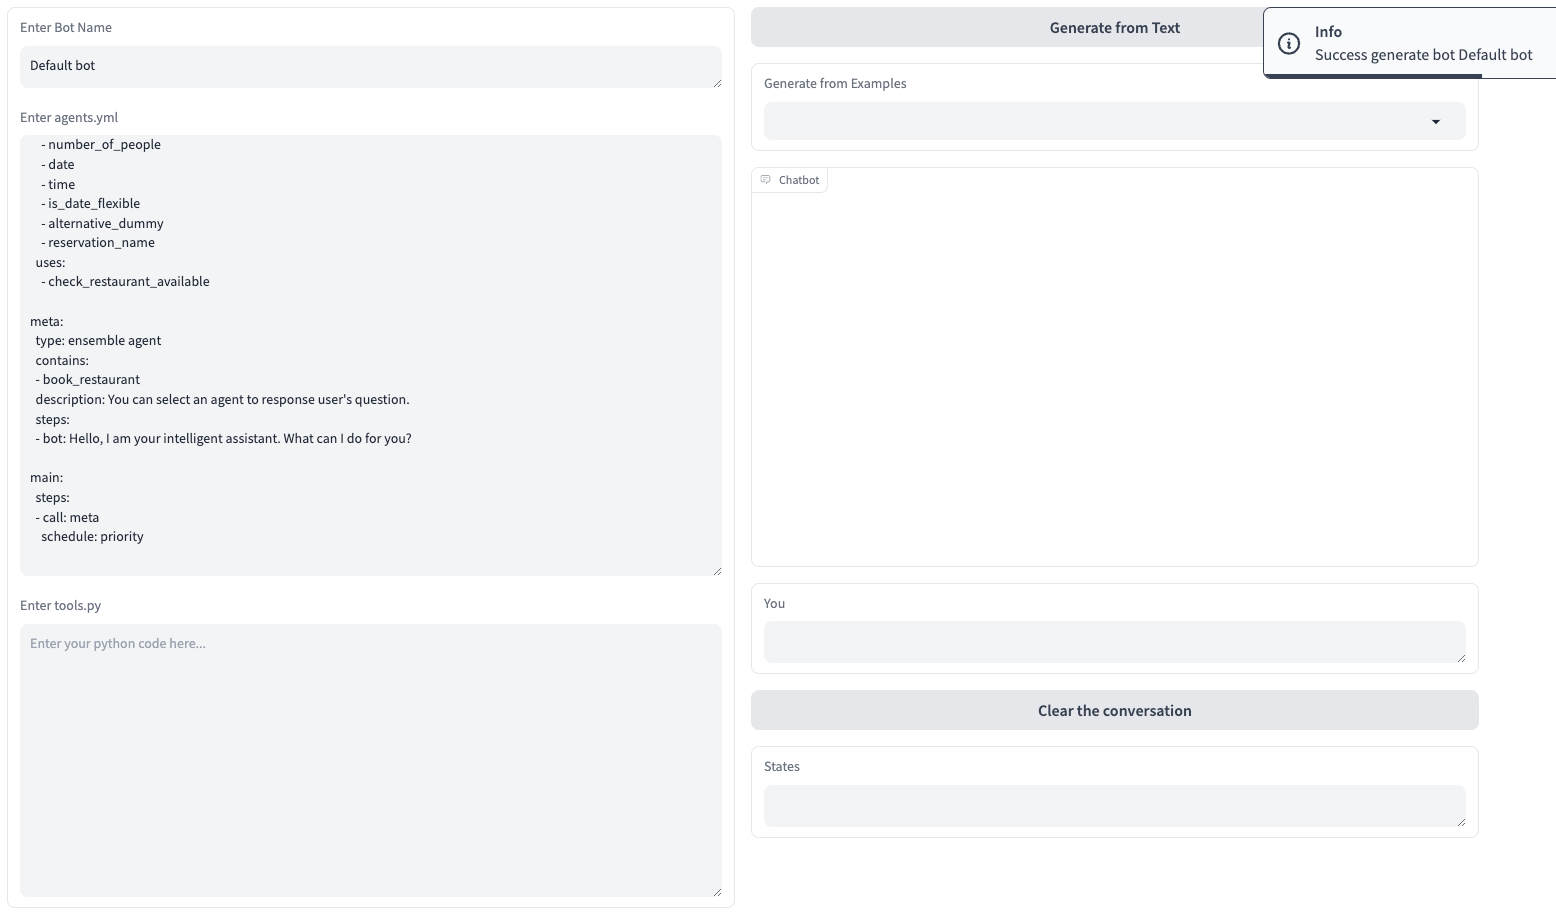
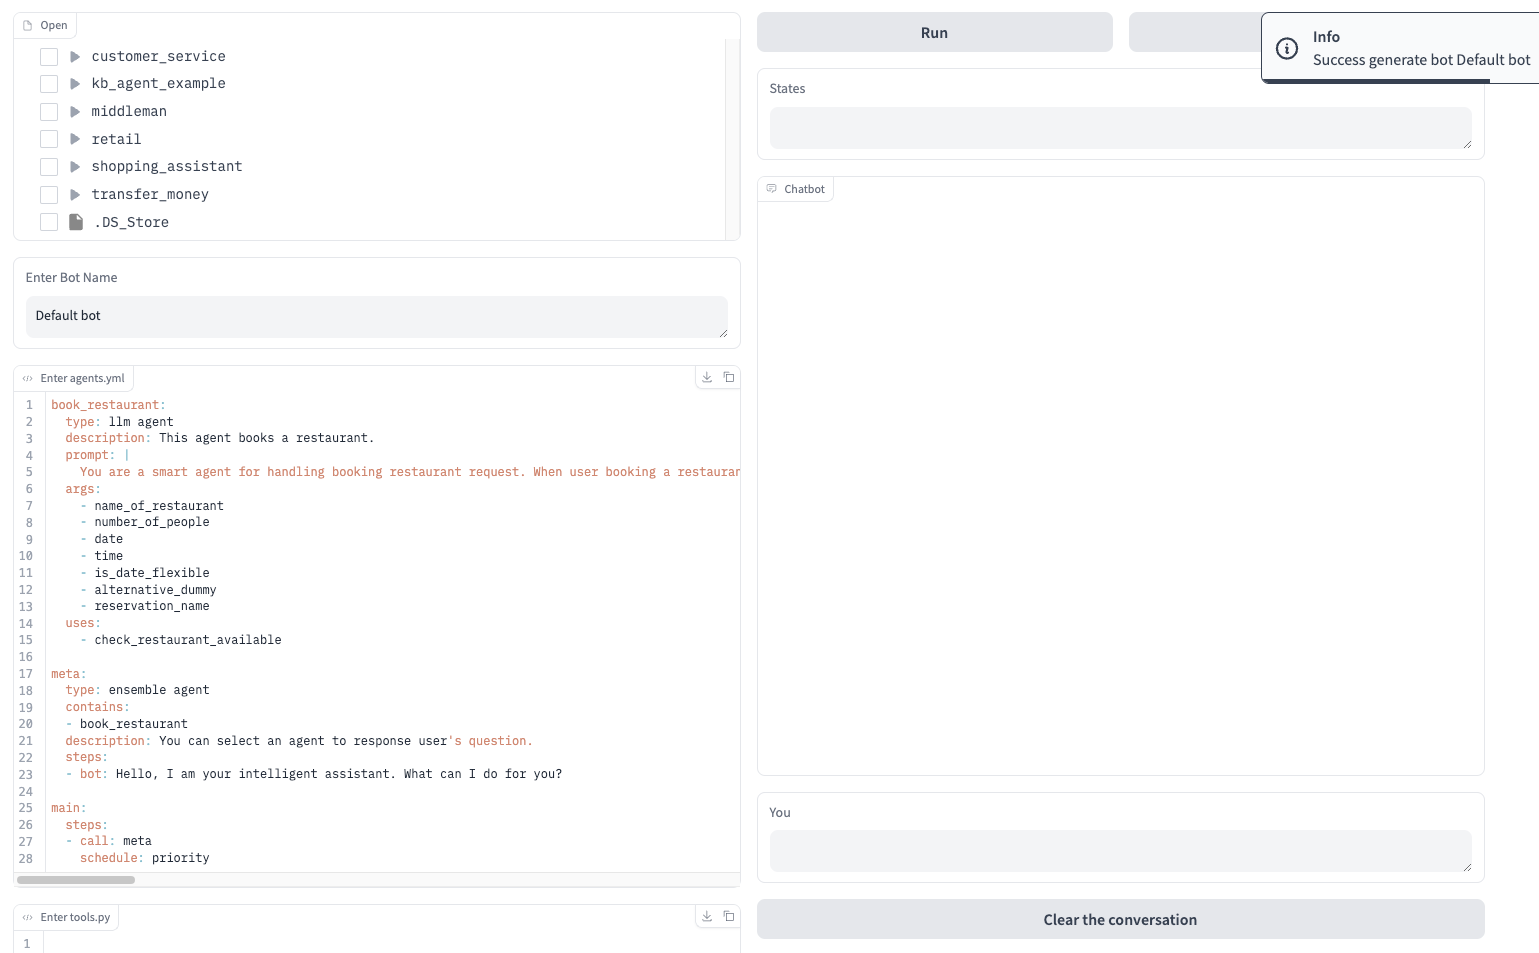
gui change

diff --git a/docs/start/index.md b/docs/start/index.md
@@ -5,7 +5,7 @@ nav_order: 5
 has_children: false
 ---
 
-Getting started with MICA is straightforward.  There are two options: One is through a local GUI frontend; the other is being deployed with docker image.
+Getting started with MICA is straightforward. There are two options: One is through a local GUI frontend; the other is being deployed with docker image.
 
 ## Local GUI Frontend
 
@@ -22,27 +22,28 @@ Then, start the service:
 python demo.py
 ```
 You can visit `http://localhost:8760` and start to design.
-![gui.png](gui.png)
+![img.png](gui.png)
 
 ## GUI Feature Introduction
 The local GUI provides features for online editing, testing, loading bots from local files, and saving bots to local storage.
 
 ### Real-time Editing
-You can customize your bot on the left side of the page. After editing, click the `Generate from Text` button at the top right to generate the bot.  
+You can customize your bot on the left side of the page. After editing, click the `Run` button at the top right to generate the bot.  
 ![generate-sussess.png](generate-sussess.png)  
 If the generation fails, an alert will be displayed. Please check if your agents' format is correct.  
-![generate-error.png](generate-error.png)  
+![generate-error.png](generate-error.png)
 
 ### Load from Local Examples
-You can also load a bot from local examples and modify it as needed. After selecting the bot you want to load, you can start a conversation immediately or modify it further. Note that after making changes, you need to click `Generate from Text` to regenerate the bot.  
-![Load example bot](load-from-disk.png)  
+You can also load a bot from local examples and modify it as needed. After selecting the bot you want to load, you can start a conversation immediately or modify it further. Please note that if you modify the examples, you need to click the `Run` button before testing the latest bot. 
+Additionally, please note that selecting multiple directories at the same time will cause a bot loading error. When deselecting, all unsaved changes will be lost immediately.
+![Load example bot](load-from-disk.png)
 
 ### Conversation and State
 Once the bot is generated, you can start a conversation with it. Enter your message in the `You` dialog box and press `Enter` to send it. The `Clear the conversation` button clears the conversation history and also resets the `States` panel. The `States` panel displays the current argument values for each agent in the bot.  
-![img.png](chat.png)  
+![chat with bot](chat.png)
 
 ### Save to Local
-You can save all bots from the left panel to a local file. Clicking the `Save to...` button will save the current bot information (excluding conversation and state data) to the local folder `./llmChatbot/demo-output`. A folder named after the bot will be created, with `agents.yml` storing the agents' information and `tools.py` storing the Python code.
+You can save all bots from the left panel to a local file. Clicking the `Save` button will save the current bot information (excluding conversation and state data) to the local folder `../bot-output`. A folder named after the bot will be created, with `agents.yml` storing the agents' information and `tools.py` storing the Python code.
 
 ## Locally Deployment
 If you need to deploy the bot as a service, you can set up a server using the following steps.  
